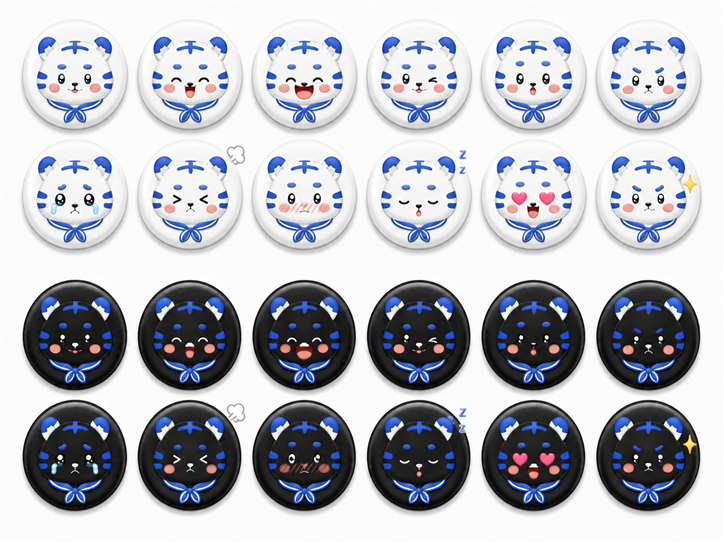
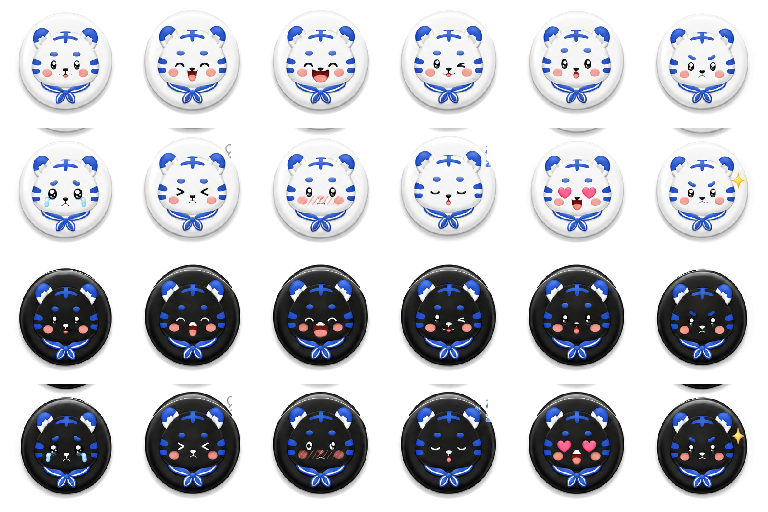
Fix tiger sprite: true background removal + perfectly centered discs (v0.11)
The source sheet has no alpha, near-bg white fur (243-247 vs bg 251), soft cast
shadows, and discs that touch neighboring cells — color-keying couldn't cut it
(white faces came out holey and off-center). Rebuilt the sheet offline:
- Hough circle fit per cell on a border-flood mask -> disc center/radius
  converged to a clean lattice (R 109-115 across all 24 cells)
- composition: inside-circle always opaque (kills fur pinholes), 2px feathered
  edge, top protrusions (ears/caps/steam) kept, shadows & neighbor spill gone
- output: 768x512, 128px cells, disc pinned at (64,64) diameter 100, real alpha
client: drawImage with the fixed geometry (no more runtime circular clip)
verified: rim symmetric around center, wood visible outside the disc (no white
box), both colors render; v0.11

diff --git a/public/index.html b/public/index.html
@@ -102,7 +102,7 @@ button.gitem:hover{border-color:rgba(18,181,166,.5)}
 </head>
 <body>
 <div class="wrap">
-  <header><h1>🎮 멀티게임 라운지</h1><span class="tag">phyksw · rooms · v0.10</span></header>
+  <header><h1>🎮 멀티게임 라운지</h1><span class="tag">phyksw · rooms · v0.11</span></header>
 
   <!-- lobby -->
   <div id="lobby" class="card">
@@ -399,11 +399,12 @@ function faceStone(x,y,r,side,exp,alpha){        // side 1=black tiger, 2=white 
   cx.beginPath(); cx.arc(x,y+r*0.18,r*0.92,0,7);  // soft ground shadow
   cx.fillStyle='rgba(50,35,15,.22)'; cx.fill();
   if(STONE_IMG.complete&&STONE_IMG.naturalWidth){
+    // preprocessed sheet: transparent bg, 128px cells, disc pinned at (64,64) with diameter 100
     const cw=STONE_IMG.naturalWidth/6, ch2=STONE_IMG.naturalHeight/4;
     const row=(side===2?0:2)+((exp/6)|0), col=exp%6;
-    const k=(2*r)/(0.84*Math.min(cw,ch2));        // sprite circle ≈ 84% of cell -> map onto 2r
-    cx.beginPath(); cx.arc(x,y,r*1.03,0,7); cx.clip();
-    cx.drawImage(STONE_IMG, col*cw, row*ch2, cw, ch2, x-cw*k/2, y-ch2*k/2, cw*k, ch2*k);
+    const s=(2*r)/100*(128/cw);                   // dest px per sprite px (disc -> 2r)
+    cx.drawImage(STONE_IMG, col*cw, row*ch2, cw, ch2,
+                 x-64*s*(cw/128), y-64*s*(ch2/128), cw*s*(cw/128), ch2*s*(ch2/128));
   } else {                                        // sprite not loaded yet -> plain stone
     const gr=cx.createRadialGradient(x-r*.35,y-r*.4,r*.1,x,y,r);
     if(side===1){ gr.addColorStop(0,'#6a6a78'); gr.addColorStop(1,'#0a0a12'); }